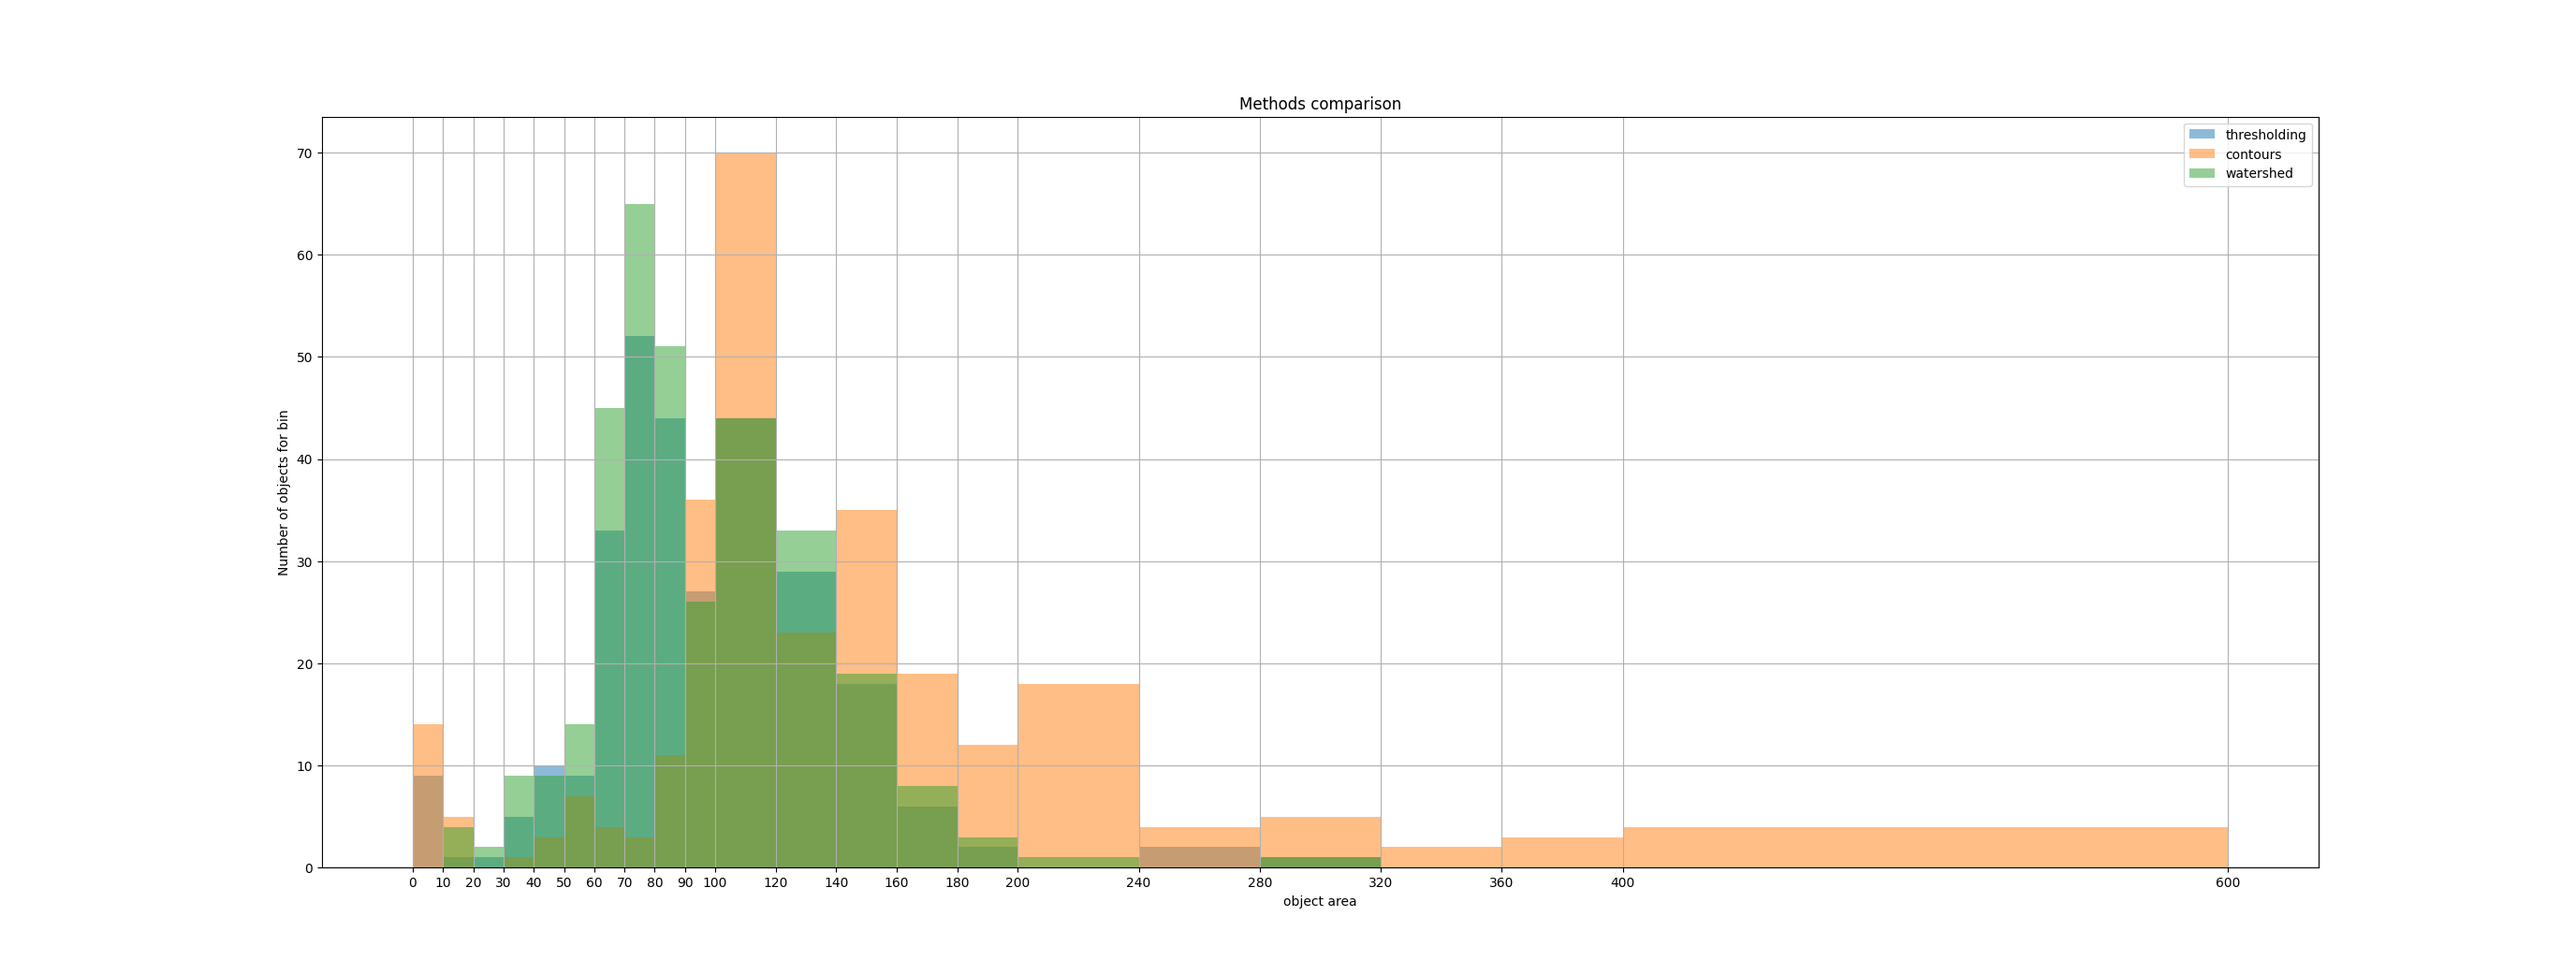
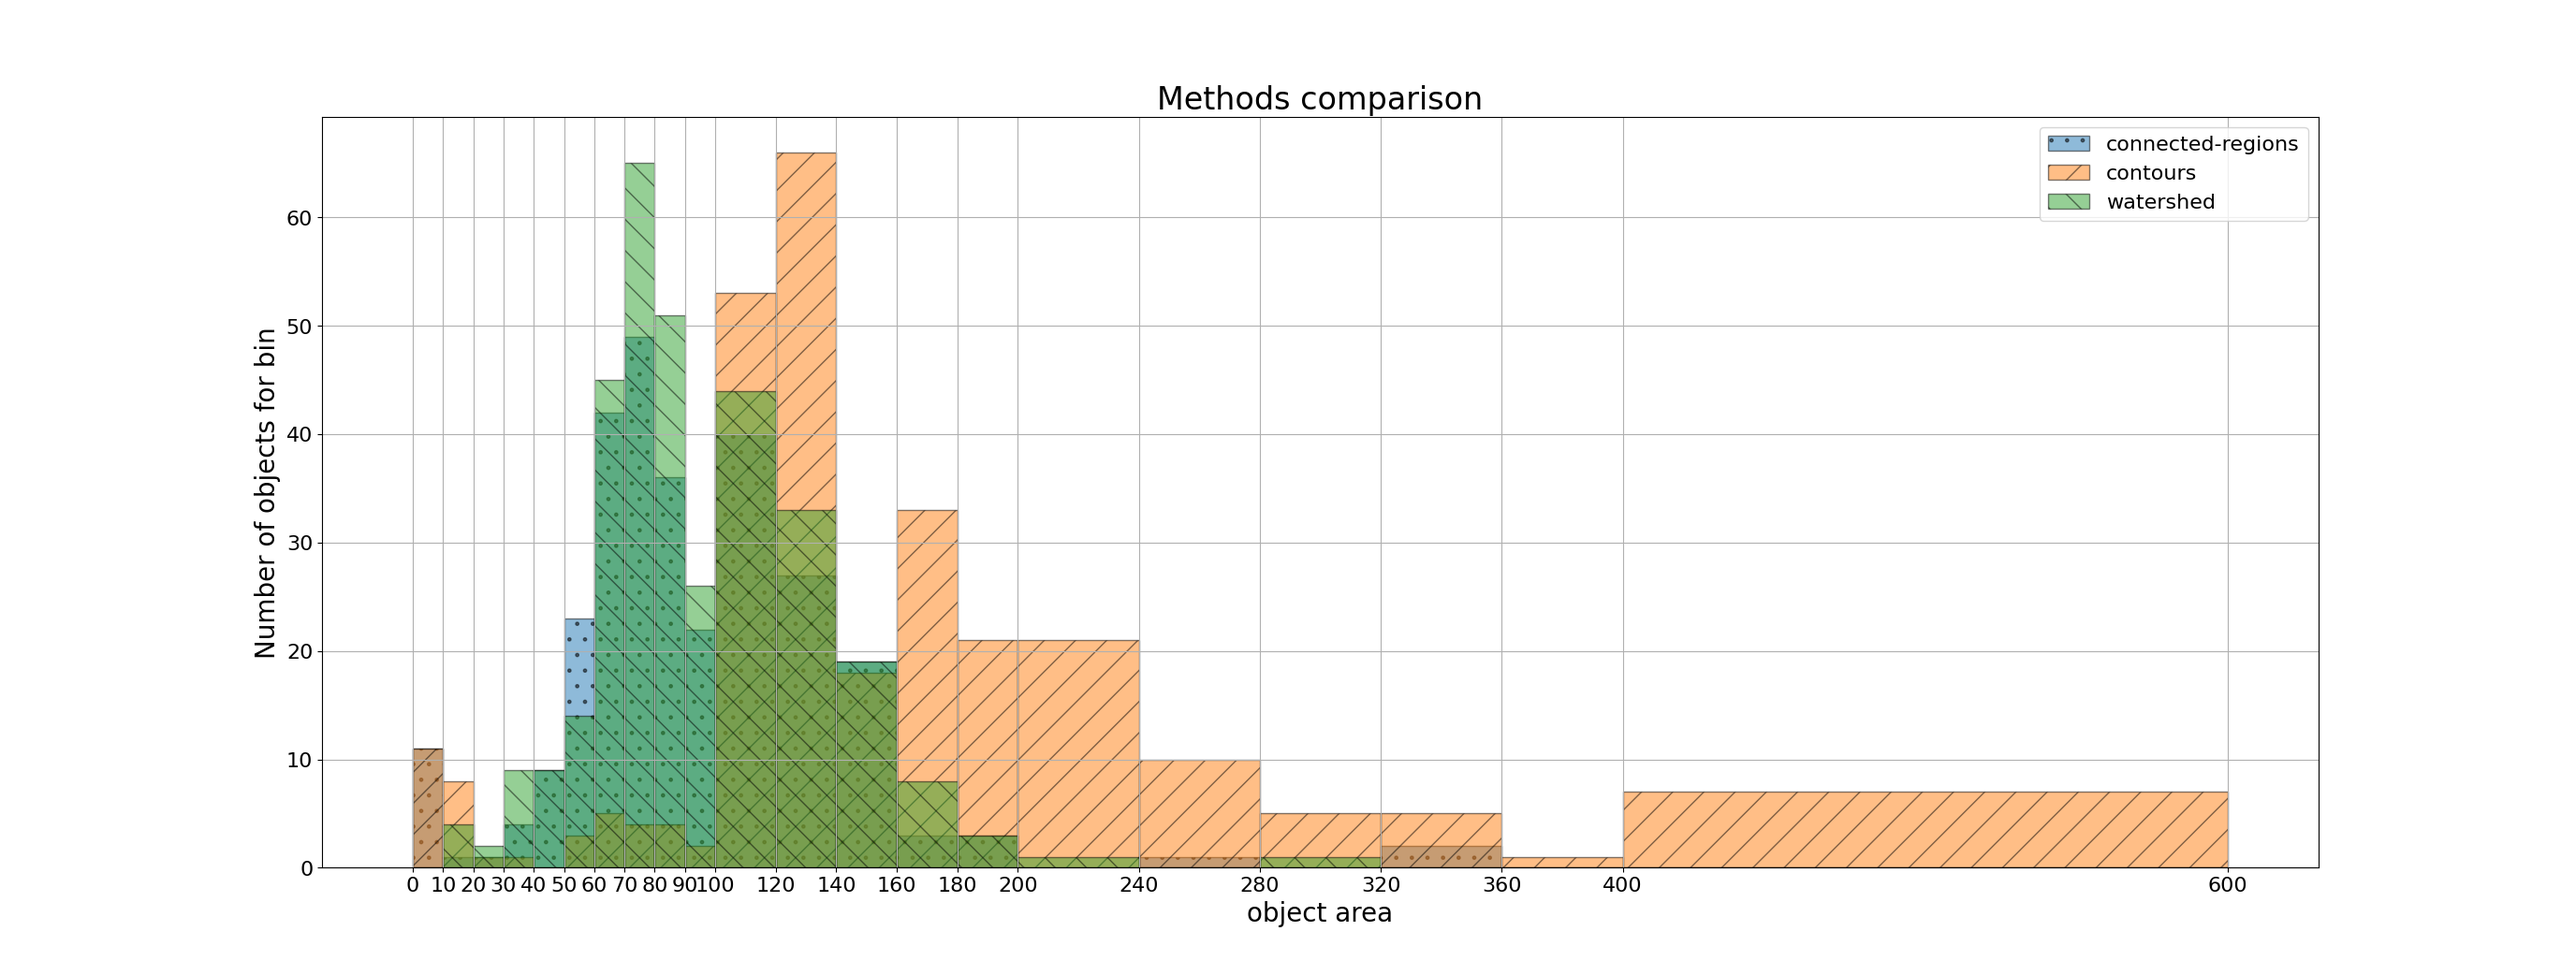
added statistics_method_comparison.py, changed visualize_multiple_objects_statistics, changed contours algorithm

diff --git a/contours.py b/contours.py
@@ -2,9 +2,10 @@ import copy
 import time
 import numpy as np
 import matplotlib.pyplot as plt
-from scipy.ndimage import binary_fill_holes
+from scipy.ndimage import binary_fill_holes, morphology
+from scipy import ndimage as ndi
 
-from skimage import filters
+from skimage import filters, morphology, measure, segmentation
 from skimage.filters import threshold_otsu, butterworth
 from skimage.morphology import closing, disk, erosion
 from skimage.measure import find_contours
@@ -13,12 +14,13 @@ from constants import HUMAN_CELLS_MITOSIS_EASY, HUMAN_CELLS_MITOSIS_BINS
 from models import ImageObjectsStatistics
 from utils import load_image, visualize_objects_statistics, visualize_image
 
-
 """
     Based on:
     High-Throughput Method for Automated Colony and Cell Counting by Digital Image Analysis Based on Edge Detection
     by Priya Choudhry
 """
+visualize = False
+method_name = "Contours"
 
 def preprocess_image(
     gray_image,
@@ -53,30 +55,34 @@ def preprocess_image(
 def segment_image(image, disk_mask_size=1):
     img = copy.deepcopy(image)
 
-    # 1. Automatic thresholding (Otsu)
     threshold = threshold_otsu(image)
     binary_edges = img > threshold
 
-    # 2. Contour closing using morphological operations
     closed = closing(binary_edges, disk(disk_mask_size))
 
-    # 3. Filling object interiors
     filled = binary_fill_holes(closed)
 
     return filled
 
 
 def label_objects(binary_image):
-    """
-    Detects contours – each contour is treated as a separate object.
-    """
-    contours = find_contours(
-        binary_image,
+    distance = ndi.distance_transform_edt(binary_image)
+    local_maxi = morphology.local_maxima(distance)
+    markers = measure.label(local_maxi)
+
+    return segmentation.watershed(
+        -distance,
+        markers,
+        mask=binary_image
+    )
+
+
+def _calculate_contours(labeled_image):
+    return find_contours(
+        labeled_image,
         level=0.5,
         fully_connected='high'
     )
-    return contours
-
 
 def contour_area(contour):
     """
@@ -100,14 +106,14 @@ def contour_perimeter(contour):
     return distances.sum()
 
 
-def calculate_statistics(contours):
+def calculate_statistics(labeled_image):
+    contours = _calculate_contours(labeled_image)
+
     areas = [contour_area(c) for c in contours]
-    # perimeters = [contour_perimeter(c) for c in contours]
-    # equivalent_diameters = [np.sqrt(4 * a / np.pi) for a in areas]
 
     objs_areas = {i + 1: v for i, v in enumerate(areas)}
 
-    return ImageObjectsStatistics(objs_areas=objs_areas.items())
+    return ImageObjectsStatistics(method_name=method_name, objs_areas=objs_areas.items())
 
 
 def visualize_contours(gray_image, contours):
@@ -123,8 +129,6 @@ def visualize_contours(gray_image, contours):
 
 
 # MAIN
-visualize = False
-
 start = time.time()
 
 image = load_image(HUMAN_CELLS_MITOSIS_EASY)
@@ -153,5 +157,4 @@ if visualize:
     )
     visualize_image(image_preprocessed, title="Preprocessed image")
     visualize_image(image_segmented, title="Segmented image")
-    visualize_contours(image_segmented, labeled_image)
-    visualize_contours(image, labeled_image)
+    visualize_contours(image, _calculate_contours(labeled_image))

diff --git a/connected_regions.py b/connected_regions.py
@@ -15,6 +15,8 @@ from utils import load_image, visualize_objects_statistics, visualize_image, vis
     Measuring the blood cells by means of an image segmentation. Philica, 2017. hal-01654006
     By Amelia Carolina Sparavigna.
 """
+visualize = True
+method_name = "Connected regions"
 
 def preprocess_image(image):
     return copy.deepcopy(image)
@@ -92,7 +94,7 @@ def _measure_single_object(
 
     rows, cols = image.shape
 
-    # --- centroid (pixel-accurate) ---
+    # --- centroid ---
     ys, xs = np.where(image == label)
     if len(xs) == 0:
         raise ValueError(f"Label {label} not found")
@@ -101,7 +103,10 @@ def _measure_single_object(
     cx = xs.mean()
 
     # --- ray casting ---
-    angles = [k * math.pi / 4 for k in range(8)]
+    num_rays = 16
+    delta_theta = 2 * math.pi / num_rays
+    angles = [k * delta_theta for k in range(num_rays)]
+
     radii = []
     boundary_points = []
 
@@ -121,10 +126,13 @@ def _measure_single_object(
             iy = int(math.floor(y))
             ix = int(math.floor(x))
 
-            if (
-                iy < 0 or iy >= rows or
-                ix < 0 or ix >= cols or
-                image[iy, ix] != label
+            if _is_point_not_within_boundary(
+                    index_x=ix,
+                    index_y=iy,
+                    image_array_rows=rows,
+                    image_array_cols=cols,
+                    image_array=image,
+                    obj_label=label
             ):
                 break
 
@@ -140,16 +148,21 @@ def _measure_single_object(
             boundary_points.append((bx, by))
 
     # --- Carnot-based area estimation ---
-    delta_theta = math.pi / 4
     sin_dt = math.sin(delta_theta)
 
     area_carnot = 0.0
-    for i in range(8):
+    for i in range(num_rays):
         r1 = radii[i]
-        r2 = radii[(i + 1) % 8]
+        r2 = radii[(i + 1) % num_rays]
         area_carnot += 0.5 * r1 * r2 * sin_dt
 
     return area_carnot
+
+
+def _is_point_not_within_boundary(index_x, index_y, image_array_rows, image_array_cols, image_array, obj_label) -> bool:
+    return (index_y < 0 or index_y >= image_array_rows
+            or index_x < 0 or index_x >= image_array_cols
+            or image_array[index_y, index_x] != obj_label)
 
 
 def calculate_statistics(labeled_image) -> ImageObjectsStatistics:
@@ -159,12 +172,10 @@ def calculate_statistics(labeled_image) -> ImageObjectsStatistics:
     for label in areas_dict.keys():
         areas_dict[label] = _measure_single_object(labeled_image, label)
 
-    return ImageObjectsStatistics(objs_areas=list(areas_dict.items()))
+    return ImageObjectsStatistics(method_name=method_name, objs_areas=list(areas_dict.items()))
 
 
 # MAIN
-visualize = False
-
 start = time.time()
 
 image = load_image(HUMAN_CELLS_MITOSIS_EASY)

diff --git a/models.py b/models.py
@@ -12,6 +12,7 @@ class ImageObjectsStatistics:
     ares: list of all objects areas in pixels in format of: list[ tuple[Any, float], tuple[obj_label, obj_size]...]
     avg_area: average area, calculated as expected value when all probabilities are equal
     """
+    method_name: str
     objs_areas: list[tuple[Any, float]]
     areas: list[float]
     pixel_size_um: float
@@ -23,7 +24,8 @@ class ImageObjectsStatistics:
     std_dev: float
     median: float
 
-    def __init__(self, objs_areas: list[tuple[Any, float]]):
+    def __init__(self, method_name: str, objs_areas: list[tuple[Any, float]]):
+        self.method_name = method_name
         self.objs_areas = objs_areas
         self.count = len(self.objs_areas)
         self.areas = list(map(lambda x: x[1], self.objs_areas))
@@ -34,10 +36,11 @@ class ImageObjectsStatistics:
         self.median = statistics.median(self.areas)
 
     def __str__(self):
-        return (f"number_of_objects = {self.count}\n"
+        return (f"method = {self.method_name}\n"
+                f"number_of_objects = {self.count}\n"
                 f"average object size in pixels = {self.avg_area}\n"
                 f"object size standard deviation in pixels = {self.std_dev}\n"
-                f"object size median in pixels = {self.std_dev}\n"
+                f"object size median in pixels = {self.median}\n"
                 f"min object size in pixels = {self.min_area}\n"
                 f"max object size in pixels = {self.max_area}\n")
 

diff --git a/statistics_method_comparison.py b/statistics_method_comparison.py
@@ -1,0 +1,26 @@
+import copy
+
+from constants import HUMAN_CELLS_MITOSIS_EQUAL_BINS
+from connected_regions import labeled_image as thresholding_labeled_image
+from contours import labeled_image as contours_labeled_image
+from watershed import labeled_image as watershed_labeled_image
+from watershed import calculate_statistics as watershed_calculate_statistics
+
+from utils import visualize_multiple_objects_statistics
+
+thresholding_stats = watershed_calculate_statistics(copy.deepcopy(thresholding_labeled_image))
+contours_stats = watershed_calculate_statistics(copy.deepcopy(contours_labeled_image))
+watershed_stats = watershed_calculate_statistics(copy.deepcopy(watershed_labeled_image))
+
+label_stats_dict = {
+    "carnot": {"data": thresholding_stats, "hatch": "."},
+    "contours": {"data": contours_stats, "hatch": "/"},
+    "watershed": {"data": watershed_stats, "hatch": "\\"}
+}
+
+visualize_multiple_objects_statistics(
+    label_stats_dict=label_stats_dict,
+    bins_num=HUMAN_CELLS_MITOSIS_EQUAL_BINS,
+    x_label="object area",
+    title="Methods comparison"
+)

diff --git a/utils.py b/utils.py
@@ -43,14 +43,15 @@ def visualize_objects_statistics(stats: ImageObjectsStatistics, bins_num: int, x
     plt.close(fig)
 
 def visualize_multiple_objects_statistics(
-        label_stats_dict: dict[str, ImageObjectsStatistics],
-        bins_num: int,
+        label_stats_dict: dict[str, dict],
         x_label: str,
-        title: str
+        title: str,
+        bins_num: int | list = 30
 ):
     fig, ax = plt.subplots()
     for label in label_stats_dict.keys():
-        plt.hist(label_stats_dict[label].areas, bins=bins_num, label=label, alpha=0.5)
+        data_to_plot = label_stats_dict[label]
+        plt.hist(data_to_plot["data"].areas, bins=bins_num, label=label, alpha=0.5, edgecolor='black', hatch=data_to_plot["hatch"])
     plt.xlabel(x_label, fontsize=20)
     plt.ylabel("Number of objects for bin", fontsize=20)
     plt.xticks(bins_num, fontsize=16)

diff --git a/watershed.py b/watershed.py
@@ -14,6 +14,8 @@ from utils import load_image, visualize_objects_statistics, visualize_image, vis
     Automated Particle Size and Shape Determination Methods: Application to Proppant Optimization
     By Dongjin Xu, Junting Wang, Zhiwen Li, Changheng Li, Yukai Guo, Xuyi Qiao and Yong Wang 
 """
+visualize = False
+method_name = "Watershed"
 
 def preprocess_image(image):
     img = copy.deepcopy(image)
@@ -58,11 +60,9 @@ def calculate_statistics(labeled_image) -> ImageObjectsStatistics:
         areas.append(area_circle_px)
         objs_areas = {i + 1: v for i, v in enumerate(areas)}
 
-    return ImageObjectsStatistics(objs_areas=objs_areas.items())
+    return ImageObjectsStatistics(method_name=method_name, objs_areas=objs_areas.items())
 
 # MAIN
-visualize = False
-
 start = time.time()
 
 image = load_image(HUMAN_CELLS_MITOSIS_EASY)

diff --git a/all_methods_comparison.py b/all_methods_comparison.py
@@ -6,9 +6,9 @@ from watershed import stats as watershed_stats
 from utils import visualize_multiple_objects_statistics
 
 label_stats_dict = {
-    "thresholding": thresholding_stats,
-    "contours": contours_stats,
-    "watershed": watershed_stats
+    "connected-regions": {"data": thresholding_stats, "hatch": "."},
+    "contours": {"data": contours_stats, "hatch": "/"},
+    "watershed": {"data": watershed_stats, "hatch": "\\"}
 }
 
 visualize_multiple_objects_statistics(

diff --git a/constants.py b/constants.py
@@ -7,3 +7,4 @@ BLOOD_CELLS_IMAGE_HARD = f"{RESOURCES_PATH}/blood_cells_hard.jfif"
 
 HUMAN_CELLS_MITOSIS_EASY = f"{RESOURCES_PATH}/human_cells_in_mitosis.png"
 HUMAN_CELLS_MITOSIS_BINS = [0, 10, 20, 30, 40, 50, 60, 70, 80, 90, 100, 120, 140, 160, 180, 200, 240, 280, 320, 360, 400, 600]
+HUMAN_CELLS_MITOSIS_EQUAL_BINS = list(range(0, 601, 20))
